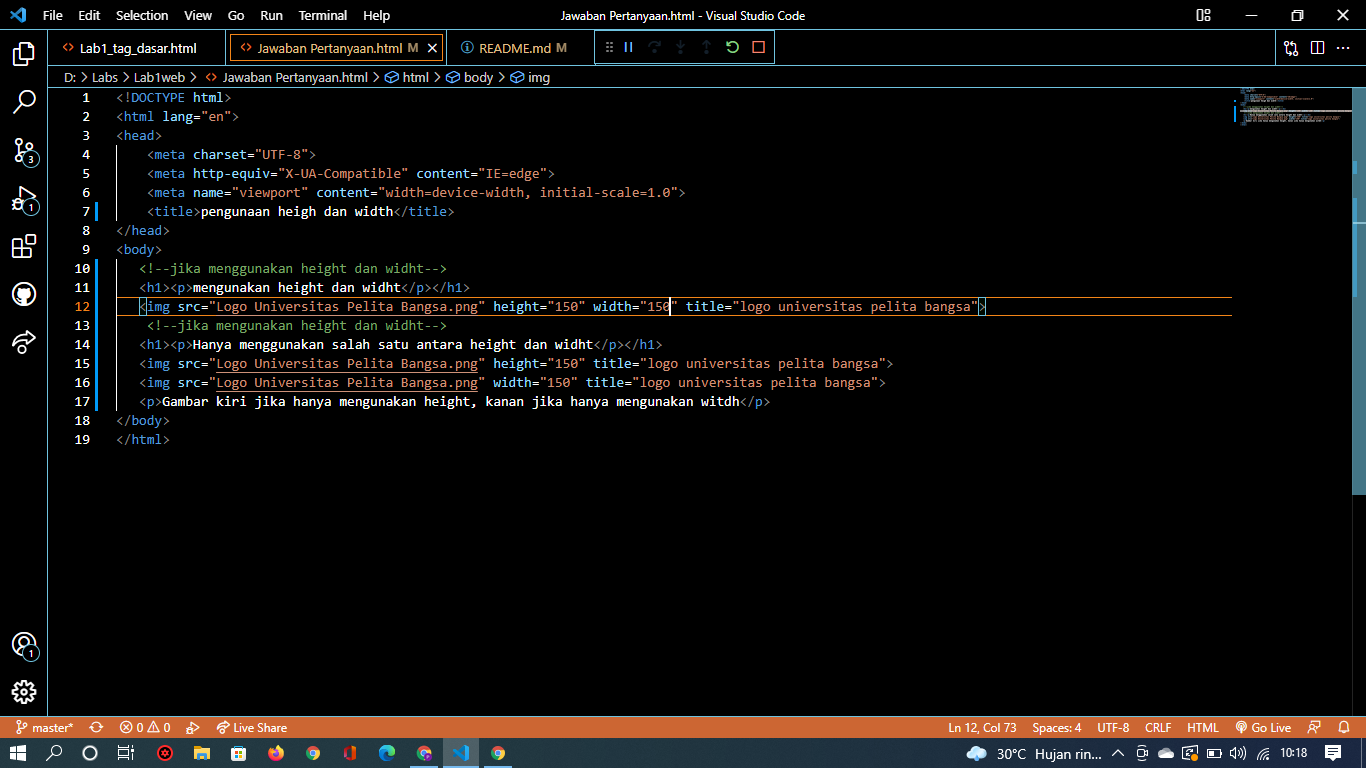
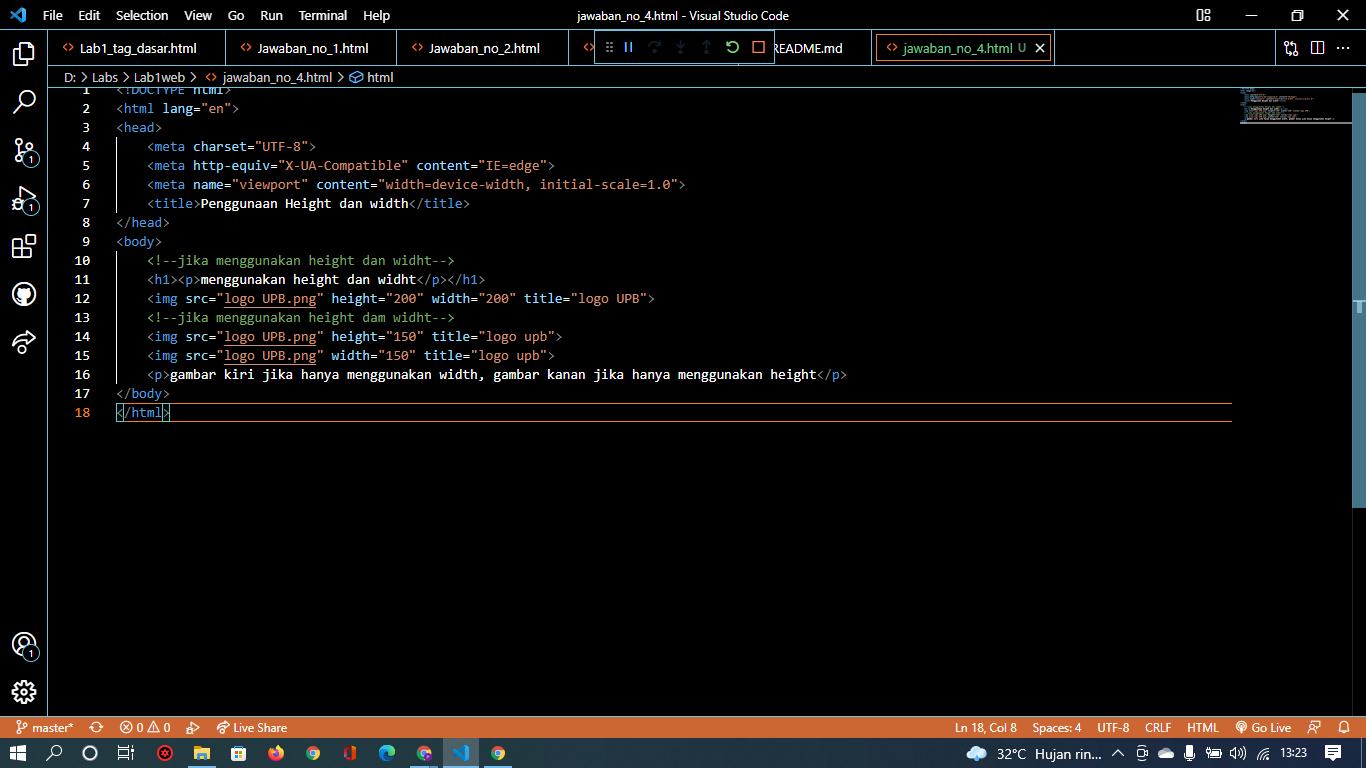
menambahkan foto

diff --git a/jawaban_no_4.html b/jawaban_no_4.html
@@ -1,0 +1,18 @@
+<!DOCTYPE html>
+<html lang="en">
+<head>
+    <meta charset="UTF-8">
+    <meta http-equiv="X-UA-Compatible" content="IE=edge">
+    <meta name="viewport" content="width=device-width, initial-scale=1.0">
+    <title>Penggunaan Height dan width</title>
+</head>
+<body>
+    <!--jika menggunakan height dan widht-->
+    <h1><p>menggunakan height dan widht</p></h1>
+    <img src="logo UPB.png" height="200" width="200" title="logo UPB">
+    <!--jika menggunakan height dam widht-->
+    <img src="logo UPB.png" height="150" title="logo upb">
+    <img src="logo UPB.png" width="150" title="logo upb">
+    <p>gambar kiri jika hanya menggunakan width, gambar kanan jika hanya menggunakan height</p>
+</body>
+</html>
